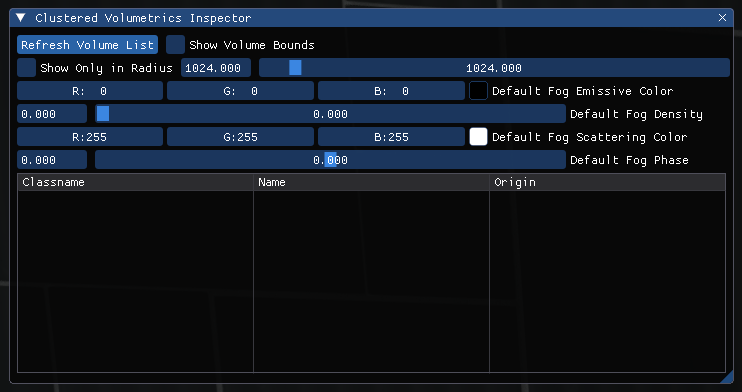
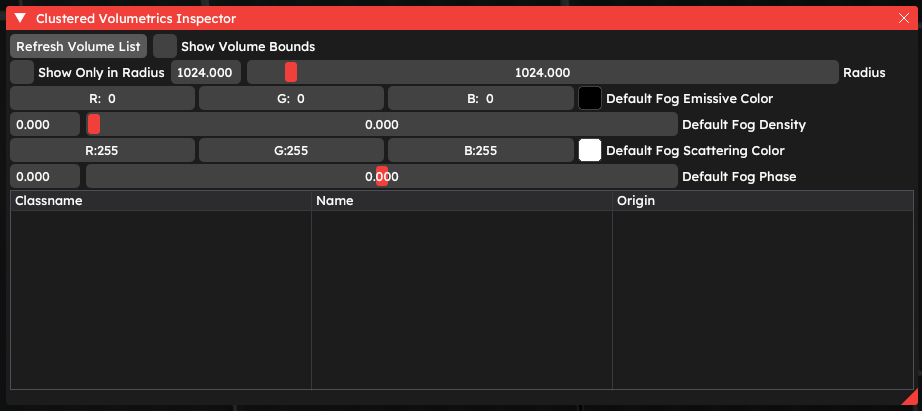
Updated volumetrics pages

diff --git a/docs/lighting/volumetrics/quick_setup.md b/docs/lighting/volumetrics/quick_setup.md
@@ -12,13 +12,13 @@ You can set up volumetrics in 3 different ways:
 2. By using `obb_fogvolume` that defines volumetric rays specifically for the fog volume it produces;
 3. Through the [Clustered Volumetric Inspector](/misc/devui/categories/graphics#clustered-volumetrics-inspector) in the Developer UI menu.
 
-### Using KeyValues:
+## Using KeyValues:
 
-**For Light_rt and light_rt_spot**
+**For light_rt and light_rt_spot**
 1. Add a light_rt or light_rt_spot entity
-2. Set the "Volumetric Light Scale" KeyValue to some value between 0.1 and 1.0
-3. Set the "Volumetric Density" KeyValue to some value between 0.1 and 1.0
-4. Make sure the "Shadowed" flag is **checked**
+2. Set the `Volumetric Light Scale` KeyValue to some value between 0.1 and 1.0
+3. Set the `Volumetric Density` KeyValue to some value between 0.1 and 1.0
+4. Make sure the `Shadowed` flag is **checked**
 5. Compile the map. The volumetrics should appear.
 
 > [!NOTE]
@@ -29,38 +29,39 @@ You can set up volumetrics in 3 different ways:
 **For env_projectexture**
  
 1. Add an env_projectexture entity
-2. Set the "Enable Volumetrics" KeyValue to Yes
-3. Set the "Volumetric Intensity" KeyValue to some value between 0.1 and 1.0
+2. Set the `Enable Volumetrics` KeyValue to Yes
+3. Set the `Volumetric Intensity` KeyValue to some value between 0.1 and 1.0
 4. Compile the map. The volumetrics should appear.
 
 > PHOTO FOR env_projectedtexture
 
-### Using `obb_fogvolume`:
+## Using `obb_fogvolume`:
 
-1. Add an obb_fogvolume entity
-2. Set the KeyValue to some value
-3. Set the KeyValue to some value
-3. Set the KeyValue to some value
-3. Set the KeyValue to some value
-3. Set the KeyValue to some value
-3. Set the KeyValue to some value
-3. Set the KeyValue to some value
-3. Set the KeyValue to some value
-3. Set the KeyValue to some value
-4. Compile the map. The volumetric cloud should appear
+1. Add an `obb_fogvolume` entity
+2. Set the `Emissive Color` KeyValue to `1 1 1 1`
+3. Set the `Scattering Color` KeyValue to `255 255 255 255` or a similar value.
+3. Set the `Density` KeyValue to something around 0.7
+3. If setting up a specific shape, toggle the `Spheroid` KeyValue or define a proper texture in `Texture Name`
+3. Add `light_rt`, `light_rt_spot` or any other light enity that works with volumetric lighting
+3. For better results, add obstacles between the light entity and the fog
+3. Compile the map. The volumetric cloud should appear and interact with volumetric lighting
 
-> PHOTO FOR obb_fogvolume
+![obb_fogvolume interaction with lighting](images/obb_volume_interact.png)
+![obb_fogvolume KeyValues](images/obb_volumefog_kv.png)
 
-### Using Clustered Volumetric Inspector:
+## Using Clustered Volumetric Inspector:
 
-You can configure and change the volumetric Lighting settings on the maps. 
-You can disable and enable it. 
-You can also change the Volumetric density and the light scale.
+It is possible to set up volumetrics for `light_rt` and `light_rt_spot` in Clustered Light Inspector.
+
+There are 4 volumetrics-related options:
+* `Volumetric Light Scale`,
+* `Volumetric Density`,
+* and two checkboxes (`Dynamic Volumetrics` and `Volumetrics Off`) that enable / disable volumetric lighting for that specific light.
 
 ![Clustered Volumetric Inspector](images/clustered_light_inspector_volumetric.jpg)
 
-# How to make it work for Cascade Shadow Mapping
+# Volumetrics for Cascade Shadow Mapping
 
-Currently, there are no KeyValues to enable volumetrics in `env_cascade_light` entity. However, there are two ways to make them appear - by using `obb_fogvolume` entity, or through the [Clustered Volumetric Inspector](/misc/devui/graphics).
+Currently, there are no KeyValues to enable volumetrics in `env_cascade_light` entity. However, there are two ways to make them appear - through the [Clustered Volumetric Inspector](/misc/devui/categories/graphics#clustered-volumetrics-inspector), or by using `obb_fogvolume` entity, since cascade shadows are marked as volumetrical.
 
 ![Volumetric effect of the Cascade Shadow Mapping](images/obb_volumefog_csm_interact_workaround.jpg)

diff --git a/docs/lighting/volumetrics/intro.md b/docs/lighting/volumetrics/intro.md
@@ -1,23 +1,16 @@
 ---
-title: "Introducing Volumetrics"
+title: "Introduction"
 weight: 10
 features:
     - USE_CLUSTERED
 ---
 
-> [!NOTE]
-> This page is work in progress. Please be patient!
-> TODO fill me.
-
 # Volumetric Lighting
 
 Volumetric Lighting is a rendering effect that simulates light rays scattering in the air.
-It allows light to have an occlusion effect, meaning objects can block the light, creating realistic shadows inside the volume.
+It allows light to have an occlusion effect, that, when objects block the light, creates realistic shadows inside the light's volume. 
 
-![Volumetrics](images/basic_volumetric.gif)
-
-> [!NOTE]
-> Player model interacts with volumetric lighting, even in the first person view.
+Player model also interacts with volumetric lighting.
 
 ![Volumetrical Player Shadow](images/vol_playershadow.png)
 
@@ -26,10 +19,12 @@ It allows light to have an occlusion effect, meaning objects can block the light
 There are 3 KeyValues in `light_rt` and `light_rt_spot` entities: `Volumetric Light Mode` **`Volumetric Density`** and **`Volumetric Light Scale`**:
 
 * `Volumetric Light Mode` toggles the volumetric lighting for this entity, can be set to either *None* or *Dynamic Only*.
-* `Volumetric density` is a floating number between 0 and 1, where 1 is fully opaque and 0 is completely invisible.
+* `Volumetric Density` is a floating number between 0 and 1, where 1 is fully opaque and 0 is completely invisible.
 * `Volumetric Light Scale` is a floating number that scales the color of the volumetric lighting casted by this entity, it is not recommended to set higher than 1.
 
-`env_projectexture`, except for `Enable Volumetrics`, have only volumetric-related KeyValue - `Volumetric Intensity`, which is identical to `Volumetric Density`. But unlike all the other entities that produce volumetrics, projected texture volumetrics work with WebM videos.
+`env_projectexture`, has only two volumetric-related KeyValues - `Volumetric Intensity`, which is identical to `Volumetric Density`, and `Enable Volumetrics`. But unlike all the other entities that produce volumetrics, projected texture volumetrics work with WebM videos.
+
+More about setting up volumetrics for each entity in [Quick Start](/lighting/volumetrics/quick_setup)
 
 ## Light Cookies and WebM support
 
@@ -39,39 +34,36 @@ Volumetrics support light cookies from `light_rt`, `light_rt_spot` and `env_proj
 
 ## Volumetrical Fog
 
-In addition to individual volumetrics for the Clustered lights, there is a point entity called `obb_fogvolume`. It allows you to place a volumetric fog in your map. It can have a different shape, color and density, but most importantly, **it projects volumetrical rays of the lights that intercept it**. Simply put, this ... 
+In addition to individual volumetrics for the Clustered lights, there is a point entity called `obb_fogvolume`. It allows placing a volumetric fog, that can have a different shape, color and density, but most importantly, **it projects volumetrical rays of the lights that intercept it**. Simply put - volumetric shadows from a light source, if not seen anywhere else, will appear in that fog. *I can't find right words to explain this, but the difference is that volumetrics from the light itself are for the light itself, and volumetrical fog receives shadows from all the volumetrical lights instead.*
 
 #### KeyValues:
-* The width
-* The height
-* The depth of the fog
-* the color of the "emissive"
-* the color of the "scaterring"
-* a `Spheroid` KeyValue
-* the KeyValue `Texture Name`
-* the X and Y axes of the custom texture slices.
+* `Half-Width` of the fog on the Y axis;
+* `Half-Width` of the fog on the Z axis;
+* `Half-Width` of the fog on the X axis;
+* `Emissive Color`, which is the color of the fog;
+* `Scattering Color`, which is the color of the rays passing through the fog;
+* `Phase` of the rays passing through the fog;
+* `Spheroid` checkmark, determining the general shape of the fog;
+* `Texture Name` determines a 2D-to-3D texture forming the shape of the fog;
+* `Texture Slices` determines the amount of slices of the 2D-to-3D texture (default is 16, which is 4x4 grid of textures)
 
-> TODO: replace the keyvalues above with the actual keyvalues with propper grammar.
-
-`obb_volumefog` is cubic by default. There is a `Spheroid` KeyValue to make the fog spherical.
+`obb_volumefog` is cubic by default. There are 2 ways to give it a different shape - using `Spheroid` or `Texture Name` keyvalues.
 
 ![OBB_VolumeFog Cube](images/obb_volumefog_cube.jpg)
 
 ![OBB_VolumeFog Sphere](images/obb_volumefog_sphere.jpg)
 
-The shape of `obb_fogvolume`'s volumetric fog can be changed with the "Texture Name" KeyValue. The texture should be ... This kind of texture can be made in ...
-
-The X and Y axes of the 3D-to-2D texture slices can be changed via (KEYVALUES).
+`Texture Name` only parses 2D-to-3D textures. This kind of texture can be made in ... 
 
 ![OBB_VolumeFog with a custom texture](images/obb_volume_changetexture.jpg)
 
-All the `obb_fogvolume`'s KeyValues can be changed in realtime in-game using the Clustered Volumetrics Inspector.
+All `obb_fogvolume`'s KeyValues can be changed in realtime in-game using the Clustered Volumetrics Inspector.
 
 ![Clustered Volumetric Inspector](images/fog_inspector.png)
 
 ## Global Volumetrical Fog
 
-To set up the volumetric fog for the whole map, you can use the 'Clustered Volumetrics Inspector' in the Developer UI menu. You can enable the Clustered Volumetrics Inspector UI using the  `devui_show vol_editor` console command, or by using the `devui_menu_toggle` command and selecting `Clustered Volumetrics Inspector` menu in the `Graphics` tab.
+To set up the volumetric fog for the whole map, you can use the **Clustered Volumetrics Inspector** in the Developer UI menu. You can enable the Clustered Volumetrics Inspector UI using the  `devui_show vol_editor` console command, or by using the `devui_menu_toggle` command and selecting `Clustered Volumetrics Inspector` menu in the `Graphics` tab.
 
 Clustered Volumetrics Inspector allows setting the volumetrical value for all clustered lights globally, allowing to preview the new volumetric lighting on the maps that were compiled before the update. It does that by applying a pseudo-`obb_fogvolume` that covers the whole map, values of which are controlled by this menu.
 

diff --git a/docs/lighting/volumetrics/troubleshooting.md b/docs/lighting/volumetrics/troubleshooting.md
@@ -7,18 +7,24 @@ features:
 
 # Troubleshooting
 
-### The volumetrics don't show up!
+This is a list of currently known issues and some troubleshooting tips for any issues with volumetric lighting.
 
-Skill issue.
+### "The volumetrics don't show up!"
 
-### The volumetrics are too intense!
+* Skill issue.
 
-Same issue.
+### "The volumetrics are too intense!"
 
-### My Volumetrics are broken and corrupt!
+* Seems like the `Volumetric Density` KeyValue is set too high. The value of 1.0 makes the volumetric ray completely opaque, so make sure it is set to something around 0.1 for more realistic results.
 
-We fucked all the AMD GPUs in the ASS! Go buy an nvidia, we don't care.
+### "The volumetrics for a light source are everywhere, even behind walls!"
 
-### How do I get to use it? I don't have P2CE
+* Volumetric lighting is shadow dependant, you need to make sure the `Shadowed` flag is checked when making shadowed volumetrics. If the flag is enabled but volumetrics are still leaking, then you might have too many dynamic shadows updating at once. See [clustered troubleshooting page](/lighting/clustered/troubleshooting) for more information related to the issue.
 
-Dude... ugh. Just shut up. Open beta in 2 months.
+### "My volumetrics are broken and corrupt!"
+
+* Certain AMD GPU models are known to have trouble running the clustered renderer, and since volumetrics are shadow dependant, this issue relates to them as well. **If you experience this, let us know what GPU brand/model, operating system and other hardware specs you're using.** Clustered lights may also act weird when running the game on Linux under DXVK, however the circumstances in which they break should not be possible in production.
+
+### "Hey, you didn't cover my seemingly common issue!"
+
+* **That's exactly why rewieving system on Github exists. If you know any issues that I haven't covered, PLEASE LET ME KNOW!** And yes I'll remove this line once it'll come to merging.